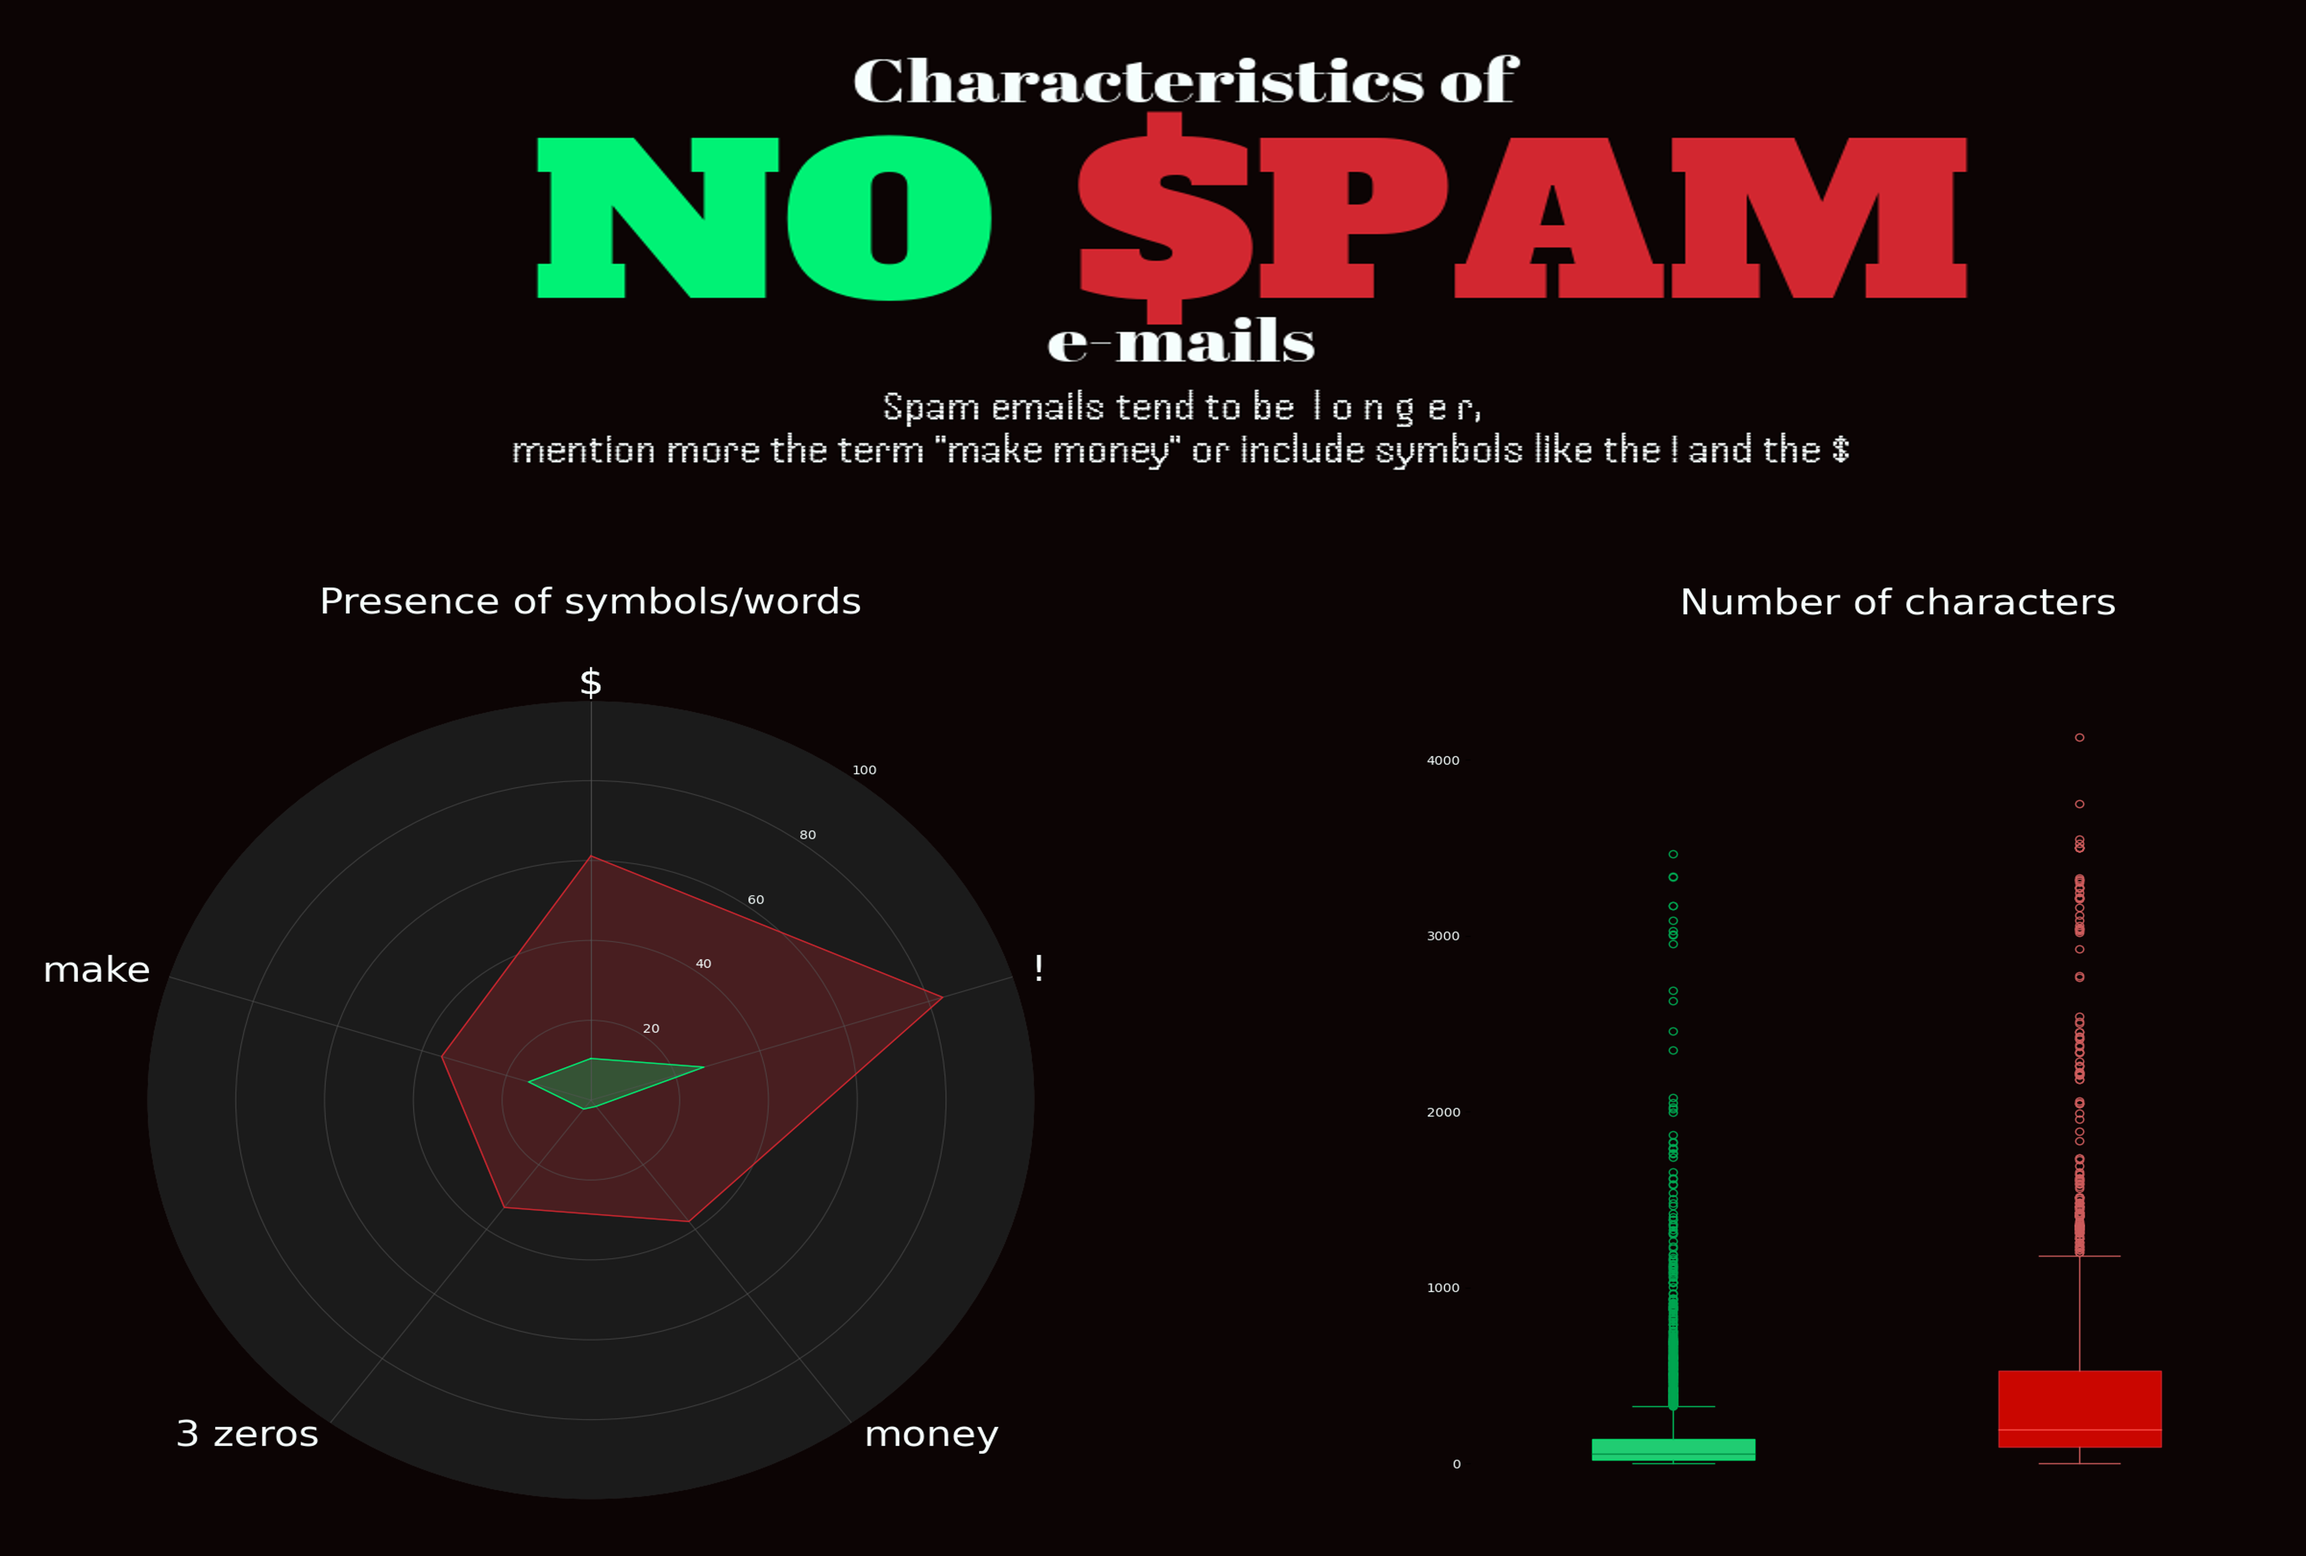
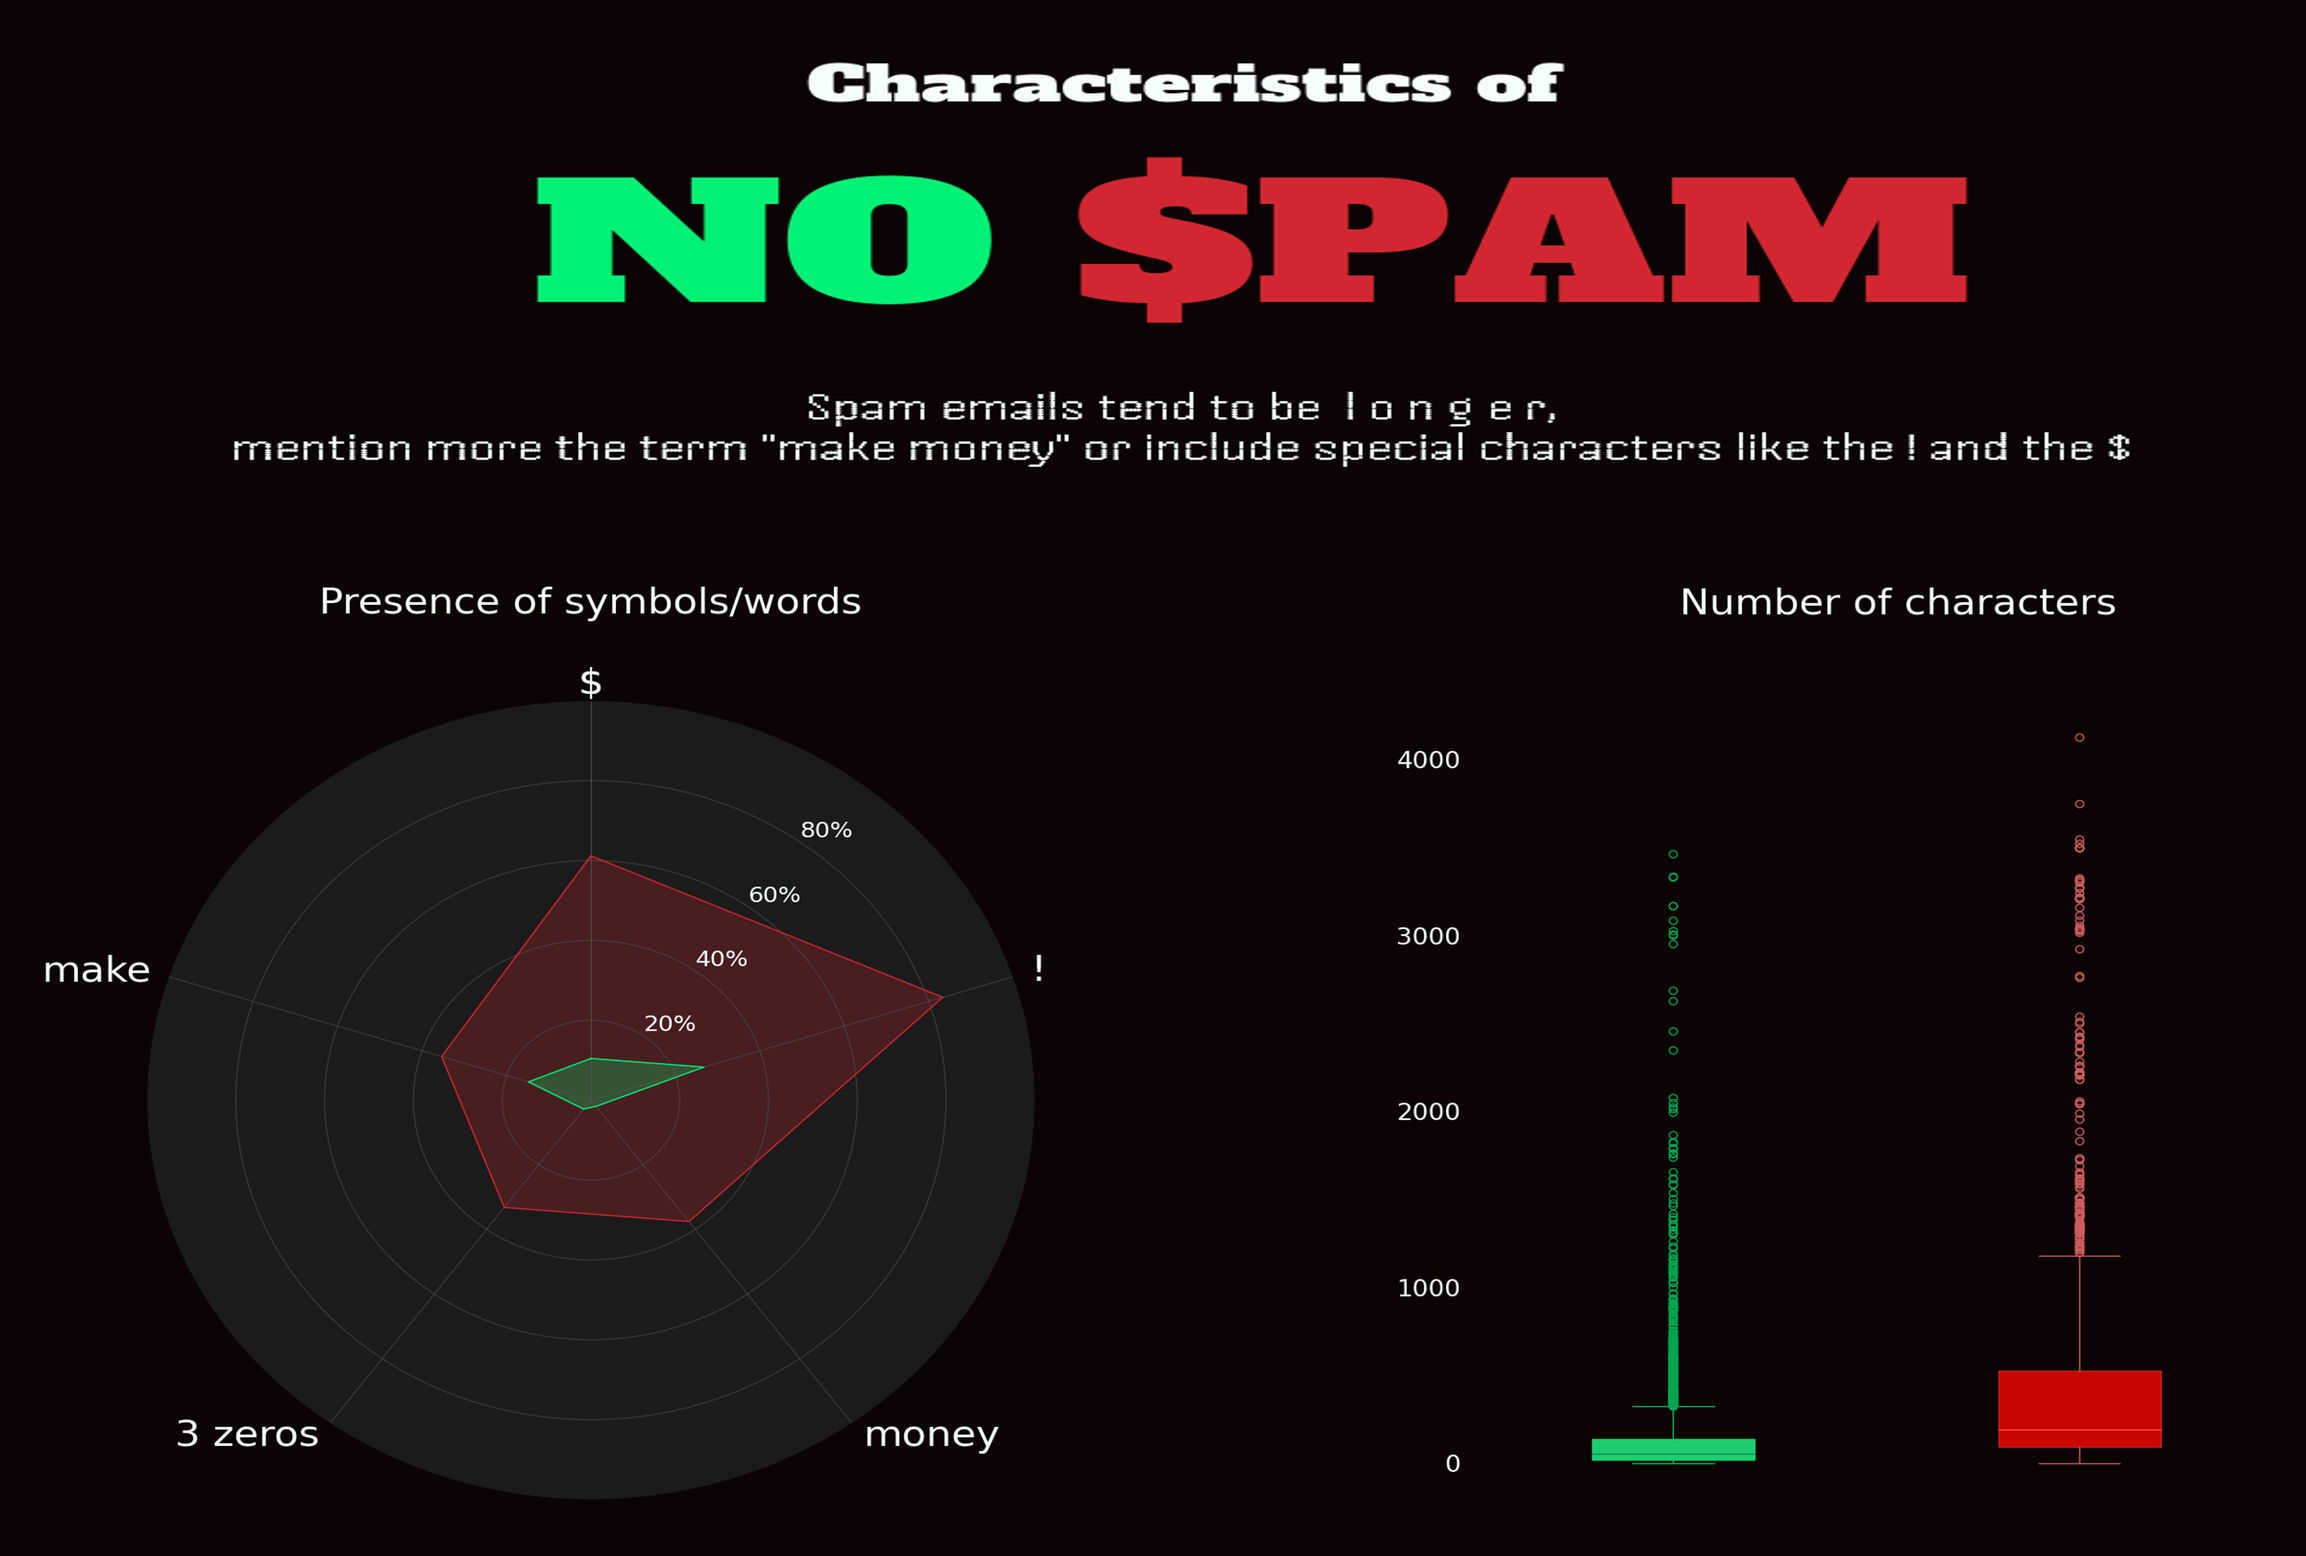
Week 33

diff --git a/2023/2023-week-33/15_08.py b/2023/2023-week-33/15_08.py
@@ -1,11 +1,14 @@
+# TidyTuesday, week 33 of 2023, creator: Ioannis Doganos
+
 # Import the libraries
 import pandas as pd
 import numpy as np
 from math import pi
 
 import matplotlib.pyplot as plt
+import matplotlib.font_manager as fm
 
-# Load custom fonts
+# Load custom fonts (not all fonts are used)
 import matplotlib as mpl
 from pathlib import Path
 
@@ -14,6 +17,7 @@ alfaslabpath = Path(mpl.get_data_path(), "./fonts/ttf/AlfaSlabOne-Regular.ttf")
 handjetpath = Path(mpl.get_data_path(), "./fonts/ttf/Handjet.ttf")
 handjetlightpath = Path(mpl.get_data_path(), "./fonts/ttf/Handjet-Light.ttf")
 
+# ---- DATA ---- 
 # Read the data
 spam = pd.read_csv('https://raw.githubusercontent.com/rfordatascience/tidytuesday/master/data/2023/2023-08-15/spam.csv')
 
@@ -23,7 +27,8 @@ for column in spam.columns[1:-1]:
     percentages[column] = round((spam[spam[column] > 0].groupby('yesno')[column].count() / spam.groupby('yesno')[column].count())*100, 2)
 
 
-#---- PLOT ----
+# ---- PLOT ----
+
 # The colors
 green_general = '#00f275'
 green_fill = '#26ff8f'
@@ -96,6 +101,11 @@ for label, angle in zip(ax1.get_xticklabels(), angles):
 
 # Ensure radar goes from 0 to 100.
 ax1.set_ylim(0, 100)
+# Change the tick labels in order to show as percentage
+# First set the ticks because of a bug in matplotlib that shows a warning message
+# Solution found: https://stackoverflow.com/questions/63723514/userwarning-fixedformatter-should-only-be-used-together-with-fixedlocator
+ax1.set_yticks(list(range(20, 120, 20)))
+ax1.set_yticklabels(['20%', '40%', '60%', '80%', ''])
 
 # Set position of y-labels (0-100) to be in the middle
 # of the first two axes.
@@ -105,7 +115,7 @@ ax1.set_rlabel_position(180 / num_vars)
 # Change the color and the size of the tick labels.
 ax1.tick_params(colors=labels_color, labelsize = 30)
 # Make the y-axis (0-100) labels smaller.
-ax1.tick_params(axis='y', labelsize=10)
+ax1.tick_params(axis='y', labelsize = 18)
 # Change the color of the circular gridlines.
 ax1.grid(color='#555555', alpha = 0.6)
 # Change the color of the outermost gridline (the spine).
@@ -118,19 +128,18 @@ fig1.patch.set_facecolor(background_color)
 # Lastly, give the chart a title
 ax1.set_title('Presence of symbols/words', y=1.1, color = labels_color, size = 30)
 
-# Save the plot as an image
+# Save the plot as image
 plt.savefig('RadarChart.png')
 
 
-# ---- The boxplots ----
+# ---- Boxplots ----
 
 spam_email = spam[(spam['yesno'] == 'y') & (spam['crl.tot'] < 5000)]
 no_spam_email = spam[(spam['yesno'] == 'n') & (spam['crl.tot'] < 5000)]
 
-
 fig2, (ax2, ax3) = plt.subplots(1, 2, sharex=True, sharey=True, figsize=(12, 12))
 
-# ----The boxplot for no-spam----
+# ----Boxplot for no-spam----
 # The attributes for the coloring of the boxplot
 boxprops = dict(color=green_general, facecolor=green_fill, linewidth=1, alpha = 0.8)
 flierprops = dict(marker='o', markersize=6, markeredgecolor=green_outliers)
@@ -153,11 +162,11 @@ ax2.spines[['top', 'right', 'bottom', 'left']].set_visible(False)
 # Change the color of the labels
 ax2.tick_params(axis='y', labelcolor=labels_color)
 # Change the fontsize of the ticks
-plt.rc('ytick',  labelsize = 15)
+plt.rc('ytick',  labelsize = 19)
 # Change the background color
 ax2.set_facecolor(background_color)
 
-# ----The boxplot for spam----
+# ----Boxplot for spam----
 # The attributes for the coloring of the boxplot
 boxprops = dict(color=red_general, facecolor=red_fill, linewidth=1, alpha = 0.8)
 flierprops = dict(marker='o', markersize=6, markeredgecolor=red_outliers)
@@ -186,7 +195,7 @@ ax3_position = ax3.get_position()
 ax2_position = ax2.get_position()
 ax3.set_position([ax2_position.x1, ax3_position.y0, ax3_position.width, ax3_position.height])
 
-# Change the figure's background to mach the plots' background
+# Change the figure's background to mach the plot's background
 fig2.patch.set_facecolor(background_color)
 
 # Put a title
@@ -196,16 +205,15 @@ plt.title('Number of characters', color = labels_color, fontsize = 30, x = 0.055
 plt.savefig('Boxplots.png')
 
 
-# ---- 'TITLE' and 'SUBTITLE' ----
-fig3, ax4 = plt.subplots(figsize = (12,3.5))
+# ---- Title and Subtitle ----
+fig3, ax4 = plt.subplots(figsize = (12, 4.5))
 
-ax4.text(0.5, 0.9, 'Characteristics of', fontsize = 30, color = labels_color, ha = 'center', font = arbilpath)
-ax4.text(0.44, 0.41, 'NO ', fontsize = 100, color = green_general, ha = 'right', font = alfaslabpath)
-ax4.text(0.44, 0.41, '$PAM',fontsize = 100, color = red_general, ha = 'left', font = alfaslabpath)
-ax4.text(0.5, 0.25, 'e-mails', fontsize = 30, color = labels_color, ha = 'center', font = arbilpath)
+ax4.text(0.5, 0.9, 'Characteristics of', fontsize = 30, color = labels_color, ha = 'center', font = alfaslabpath)
+ax4.text(0.44, 0.4, 'NO ', fontsize = 100, color = green_general, ha = 'right', font = alfaslabpath)
+ax4.text(0.44, 0.4, '$PAM',fontsize = 100, color = red_general, ha = 'left', font = alfaslabpath)
 ax4.text(0.5, 0.08, '''Spam emails tend to be  l o n g e r,
-mention more the term "make money" or include symbols like the ! and the $''',
-        fontsize = 20, color = labels_color, ha = 'center', va = 'center', font = handjetlightpath)
+mention more the term "make money" or include special characters like the ! and the $''',
+        fontsize = 25, color = labels_color, ha = 'center', va = 'center', font = handjetlightpath)
 # Remove the axis
 ax4.xaxis.set_visible(False)
 ax4.yaxis.set_visible(False)
@@ -213,13 +221,12 @@ ax4.yaxis.set_visible(False)
 ax4.spines[['top', 'right', 'bottom', 'left']].set_visible(False)
 # Change the background color
 ax4.set_facecolor(background_color)
-
 fig3.patch.set_facecolor(background_color)
 
-# Save the plot as animage
+# Save as image
 plt.savefig('Title.png')
 
-# ---- MERGING THE IMAGES ----
+# ---- Merging the images ----
 
 from PIL import Image
 
@@ -237,13 +244,13 @@ radar_size = radar.resize((2000, 1800))
 # Create a new image and pasting the images
 img = Image.new("RGB", (4000, 2700), background_color)
 
-# Paste the 'title'
+# Paste the title
 img.paste(title_size, (0, 0))
 # Paste the boxplots
 img.paste(boxplots_size, (2300, 1000))
-#Paste the radar chart
+# Paste the radar chart
 img.paste(radar_size, (0, 1000))
 
-# Save and show the final image
+# Save and show the image
 img.show()
 img.save('15_08.png')
